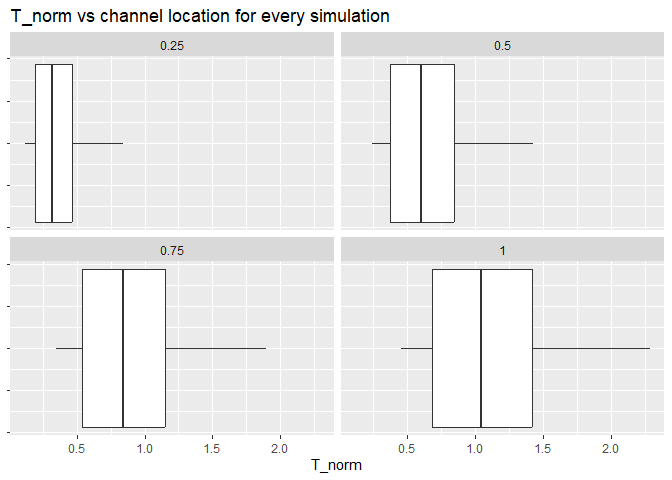
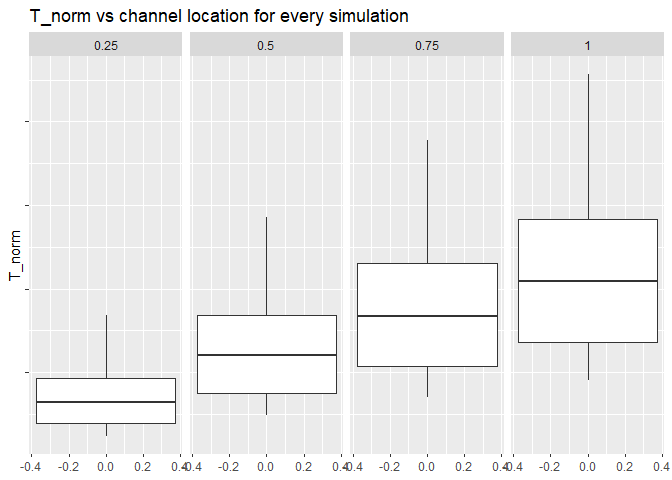
Fix challenge 11

diff --git a/challenges/c11-psaap-assignment.md b/challenges/c11-psaap-assignment.md
@@ -257,8 +257,9 @@ of fluid, for different experimental settings (e.g. different dimensions
 df_psaap %>% 
   ggplot(aes(T_norm)) +
   geom_boxplot() +
-  facet_wrap(~ x) +
+  facet_grid(~ x) +
   theme(axis.text.y=element_blank()) +
+  coord_flip() +
   ggtitle("T_norm vs channel location for every simulation")
 ```
 
@@ -624,6 +625,43 @@ df_validate %>%
     ## 1 FALSE        4 0.0667
     ## 2 TRUE        56 0.933
 
+``` r
+df_design_lam_f <- tibble(x = 1, L = 0.2, W = 0.04, U_0 = 1.0, lam_f = 0.03)
+fit_q6_lam_f <- 
+  df_train %>% 
+  lm(formula = T_norm ~ x + L + W + U_0 + lam_f)
+
+df_q6_lam_f <-
+  df_design_lam_f %>%
+  add_uncertainties(fit_q6_lam_f, interval = "prediction", prefix = "pi", level = pr_level)
+
+df_q6
+```
+
+    ## # A tibble: 1 × 7
+    ##       x     L     W   U_0 pi_fit pi_lwr pi_upr
+    ##   <dbl> <dbl> <dbl> <dbl>  <dbl>  <dbl>  <dbl>
+    ## 1     1   0.2  0.04     1   1.88   1.46   2.30
+
+``` r
+df_validate %>% 
+  add_uncertainties(fit_q6_lam_f, interval = "prediction", prefix = "pi", level = pr_level) %>% 
+  mutate(
+    in_range = (pi_lwr <= T_norm) & (T_norm <= pi_upr)
+  ) %>% 
+  group_by(in_range) %>% 
+  summarize(
+    n = n(),
+    pct = n / nrow(df_validate)
+  )
+```
+
+    ## # A tibble: 2 × 3
+    ##   in_range     n   pct
+    ##   <lgl>    <int> <dbl>
+    ## 1 FALSE       11 0.183
+    ## 2 TRUE        49 0.817
+
 **Recommendation**:
 
 - How much do you trust your model? Why?
@@ -639,8 +677,9 @@ df_validate %>%
   around?
   - 1.456 to 2.296
 - Are there any other recommendations you would provide?
-  - Fixing `lam_f` decreases the percent of values within the range, so
-    I would not fix that value.
+  - Fixing `lam_f` decreases the percent of values within the range
+    (81.7% compared to the previous model’s value of 93.3%), so I would
+    not fix that value.
 
 *Bonus*: One way you could take this analysis further is to recommend
 which other variables the design team should tightly control. You could
